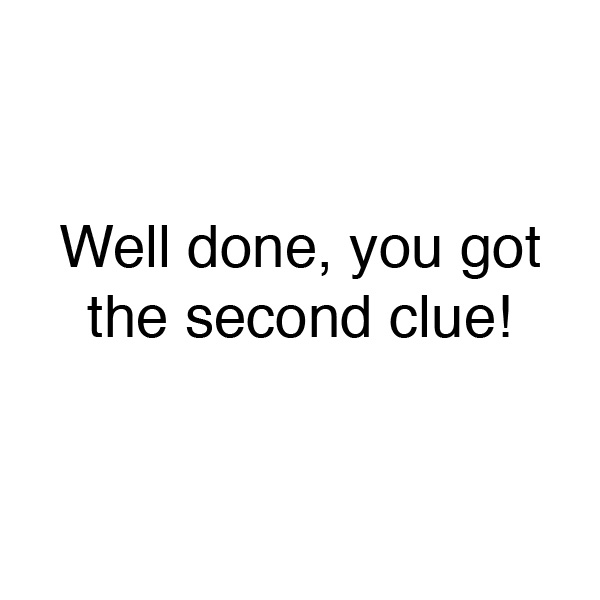
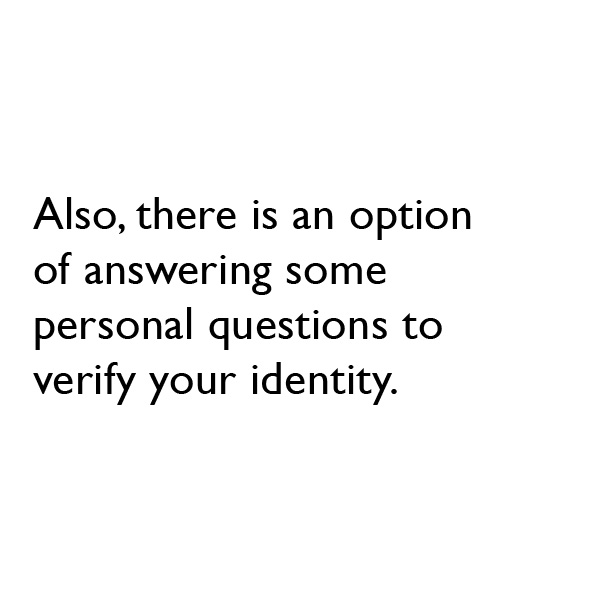
Correction

Changed region(s): [[0.06, 0.33, 0.9, 0.69], [0.42, 0.6, 0.66, 0.66]]

diff --git a/two/index.html b/two/index.html
@@ -37,13 +37,24 @@
      <p style="text-align: left; margin-left: 50px; color: white; font-family: helvetica;font-family: helvetica; font-size: 13px; margin-top: -700px">To unlock The Secret you need to find<br> <br>the password by finding out the values of 'x.'<br> <br>After you enter the value of ‘x’ in the order<br> <br>from row 1 to row 4, you’ ll unlock your password.</p>
      <p style="text-align: left; margin-left: 25px; color: white; font-family: helvetica; font-size: 15px; margin-top: 0px">
      <br><br>
-     <b>Row 1: From left to right</b> <br> Clue 1: Find x, if (x)2 = (3)2 + (4)2
+     <h2 style="font-size: 10px; font-family: helvetica"><b>EASY</b></h2>
+     <b>Row 1: From left to right</b> <br> Clue 1: Find x, if (x)2 = (2)2
  <br><br>
-</b>Row 2: From left to right</b> <br> Clue 2: Find x, if (x)2 = 3 + (2 * 3)
+</b>Row 2: From left to right</b> <br> Clue 2: Find x, if (x) = (9 + 3) / 3
  <br><br>
-<b>Row 3: From left to right </b><br> Clue 3: Find x, if (x +y) = (10 / 5) + y
+<b>Row 3: From left to right </b><br> Clue 3: Find x, if x + y = (10 / 2) + y
  <br><br>
-<b>Row 4: From left to right </b><br> Clue 4: Find x, if 2x = 6 + (2 * 3)
+<b>Row 4: From left to right </b><br> Clue 4: Find x, if (x)3 = 3 + (2 * 3)
+
+ <br><br>
+     <h2 style="font-size: 10px; font-family: helvetica"><b>HARD</b></h2>
+     <b>Row 3: From left to right</b> <br> Clue 1: Find x, if x = y / z, where y = 2 * 3 and z = 6 / 2
+ <br><br>
+</b>Row 2: From left to right</b> <br> Clue 2: Find x, if x + y = 20 / z, where y = 1 and z = 4
+ <br><br>
+<b>Row 1: From left to right </b><br> Clue 3: Find x, if x = y * z + 9, where y = (4-6) and z = 2
+ <br><br> 
+<b>Row 2: From left to right </b><br> Clue 4: Find x, if x = (y + z) / y, where y = 4 and z = 2y
   </p>
   </div>
 </body>

diff --git a/two/css/style.css b/two/css/style.css
@@ -1,7 +1,7 @@
 @import url(http://weloveiconfonts.com/api/?family=brandico);
 /* brandico */
 [class*="brandico-"]:before {
-  font-family: 'brandico', sans-serif;
+  font-family:helvetica;
 }
 
 * {
@@ -15,7 +15,7 @@ html, body {
 body {
   background: lightblue;
   min-height: 100%;
-  font-family: "Arial", sans-serif;
+  font-family: helvetica;
 }
 
 #mobile {
@@ -37,6 +37,8 @@ body {
   text-align: center;
   font-family: helvetica;
   font-size: 60px;
+  position: relative;
+  pointer-events: none;
 }
 
 /* iPhone 6*/
@@ -48,6 +50,7 @@ body {
 
   #mobile{
     opacity: 1;
+    pointer-events: all;
   }
 
   .wrap, .game, .modal-overlay, .modal, .winner, .message, .disclaimer {
@@ -93,7 +96,7 @@ body {
   float: left;
   width: 16.66666%;
   height: 25%;
-  padding: 5px;
+  padding: 1px;
   text-align: center;
   display: block;
   -webkit-perspective: 500px;
@@ -130,7 +133,6 @@ body {
           animation-delay: .4s;
 }
 .card .front, .card .back {
-  border: 1px solid black;
   -webkit-backface-visibility: hidden;
           backface-visibility: hidden;
   position: absolute;
@@ -138,7 +140,7 @@ body {
   left: 0;
   width: 100%;
   height: 100%;
-  padding: 20px;
+  padding: 0px;
 }
 .card .front img, .card .back img {
   max-width: 100%;
@@ -187,9 +189,9 @@ body {
   padding: 30px 10px;
 }
 .modal .winner {
-  font-size: 80px;
+  font-size: 60px;
   text-align: center;
-  font-family: "Anton", sans-serif;
+  font-family: helvetica;
   color: #4d4d4d;
   text-shadow: 0px 3px 0 black;
 }
@@ -199,7 +201,7 @@ body {
   }
 }
 .modal .restart {
-  font-family: "Anton", sans-serif;
+  font-family: helvetica;
   margin: 30px auto;
   padding: 20px 30px;
   display: block;

diff --git a/two/js/index.js b/two/js/index.js
@@ -65,12 +65,18 @@
 					$(".picked").addClass("matched");
 					_.guess = null;
 				} else {
+
 					_.guess = null;
-					_.paused = true;
-					setTimeout(function(){
-						$(".picked").removeClass("picked");
-						Memory.paused = false;
-					}, 600);
+					// _.paused = true;
+
+
+					_.paused = false;
+
+					
+					// setTimeout(function(){
+					// 	$(".picked").removeClass("picked");
+					// 	Memory.paused = false;
+					// }, 600);
 
 					// update the user sequence with the id clicked on
 					usersequence += $(this).attr("data-id");
@@ -90,6 +96,7 @@
 
 				// after 4 clicks check if sequences match
 				if(n == 4) {
+					_.paused = true;
 					if(usersequence==sequence){
 						_.win();
 
@@ -149,8 +156,8 @@
 				frag += '<div class="card" data-id="'+ v.id +'"><div class="inside">\
 				<div class="front"><img src="'+ v.img +'"\
 				alt="'+ v.name +'" /></div>\
-				<div class="back"><img src="img/i14.jpg"\
-				alt="Codepen" /></div></div>\
+				<div class="back"><img src="img/i'+v.id+'-back.jpg"\
+				alt="Interactive" /></div></div>\
 				</div>';
 			});
 			return frag;
@@ -191,7 +198,7 @@
 		{
 			name: "i12",
 			img: "img/i12.jpg",
-			id: 10
+			id: 1
 		},
 		{
 			name: "i13",
